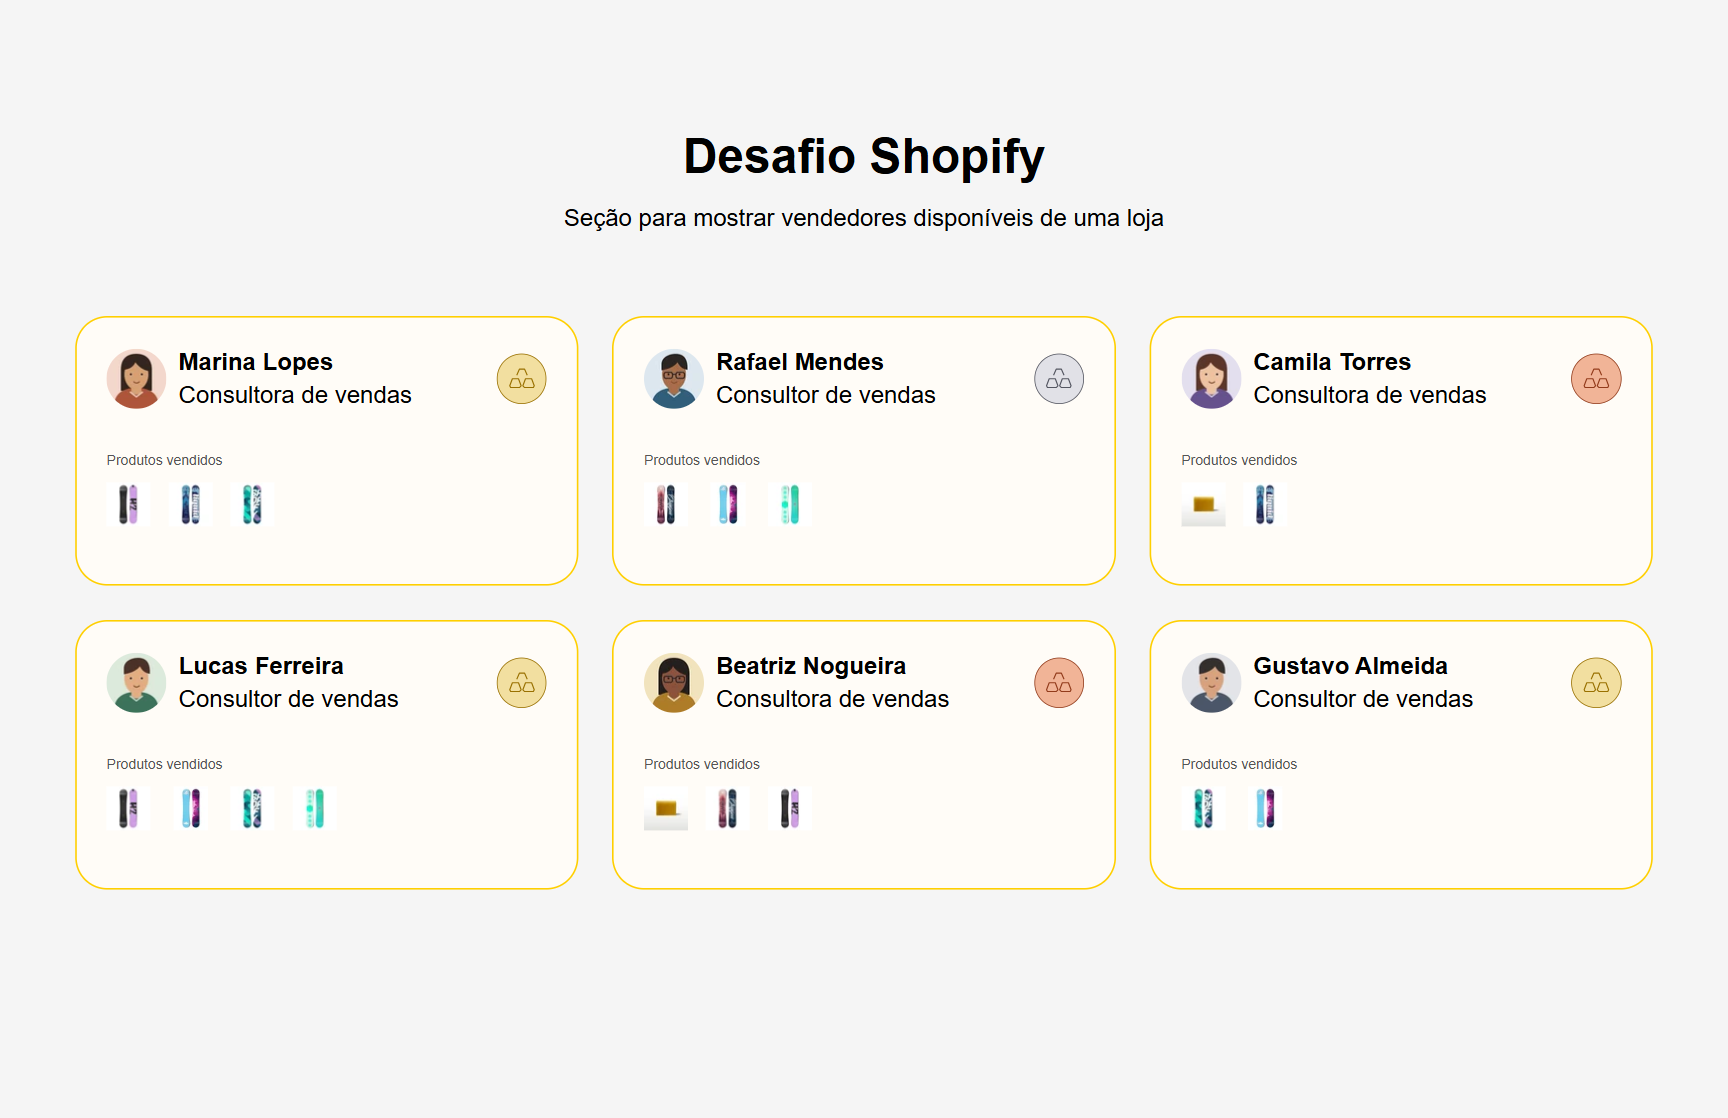
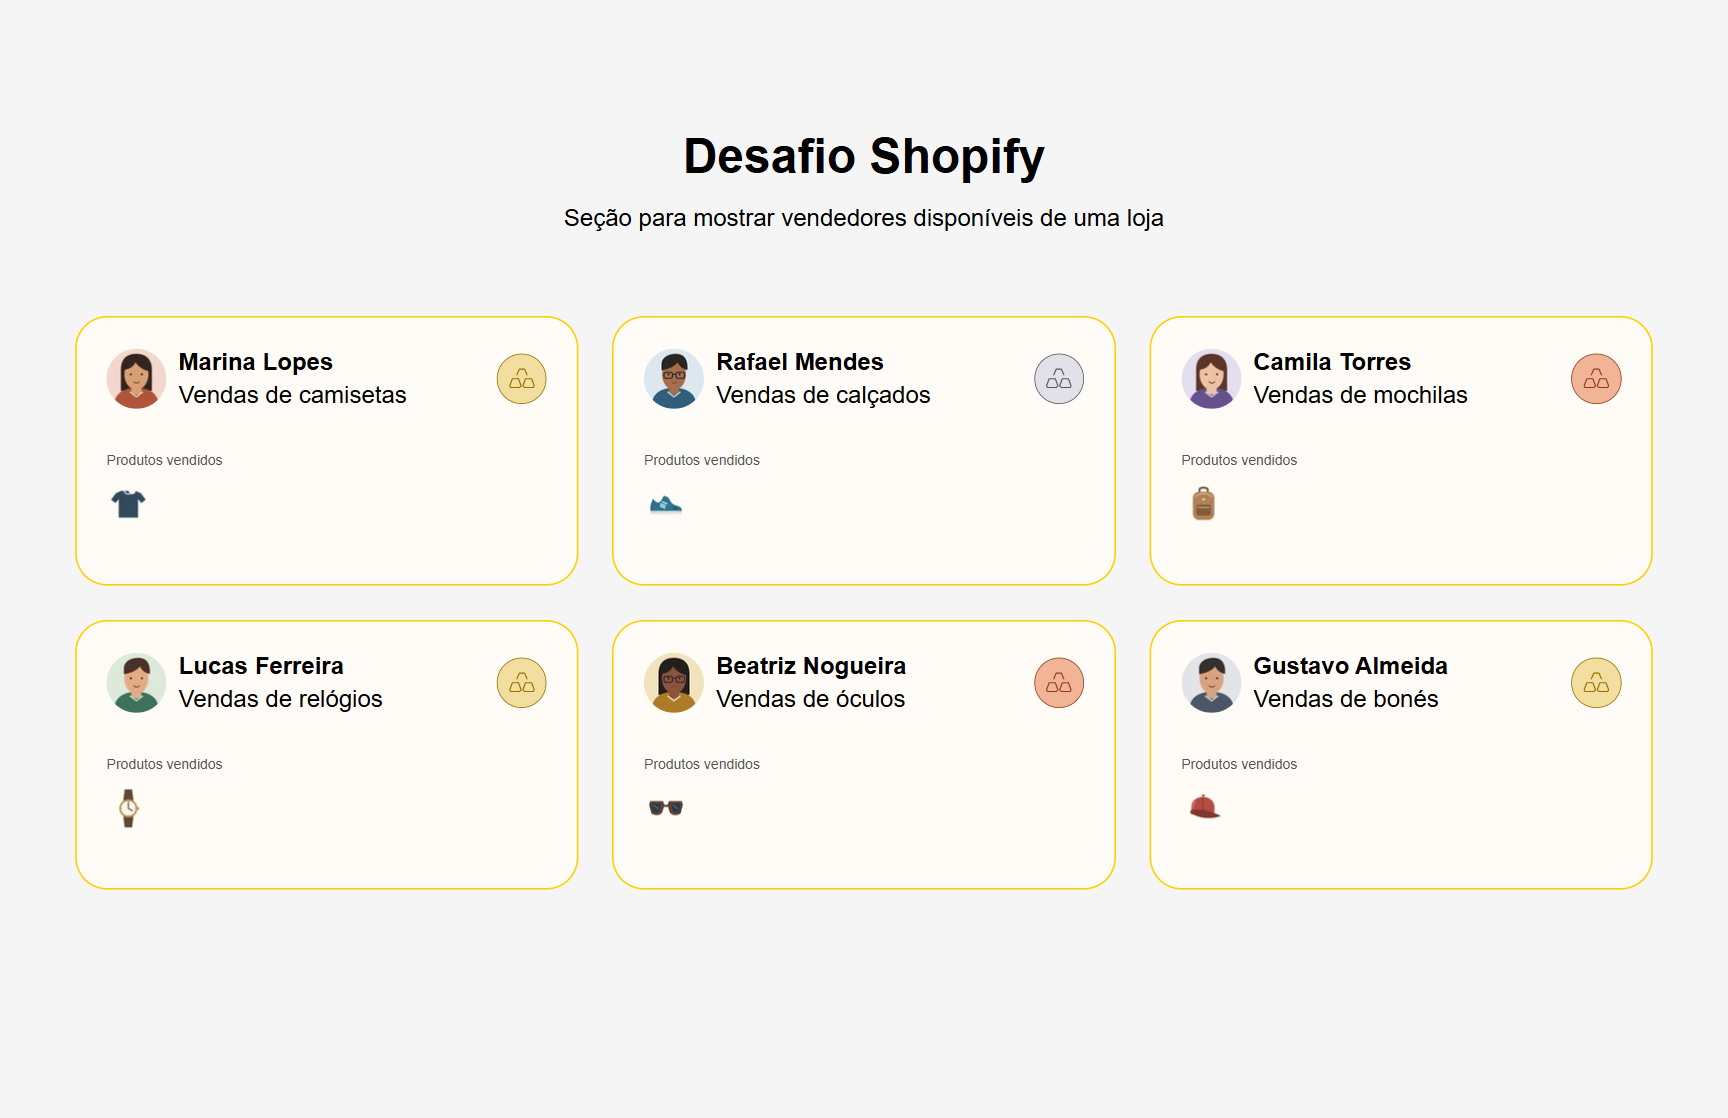
Separa produtos exclusivos por vendedor

diff --git a/README.md b/README.md
@@ -34,7 +34,16 @@ Habilite **Estado ativo/rascunho** e **Acesso à API de frentes de loja online**
 
 Sem foto, aparece o avatar padrão. Cargo, categoria e produtos são opcionais. Categorias desconhecidas não exibem selo. Produtos devem estar disponíveis no canal Loja online para suas referências aparecerem na vitrine.
 
-A demonstração contém Marina Lopes, Rafael Mendes, Camila Torres, Lucas Ferreira, Beatriz Nogueira e Gustavo Almeida. Cada vendedor possui um avatar próprio e uma seleção diferente de produtos, com duas a quatro referências por card.
+A demonstração contém seis vendedores com avatares próprios. Cada um vende um único produto, de uma categoria exclusiva:
+
+| Vendedor | Produto |
+| --- | --- |
+| Marina Lopes | Camiseta de algodão premium |
+| Rafael Mendes | Tênis casual urbano |
+| Camila Torres | Mochila executiva |
+| Lucas Ferreira | Relógio clássico |
+| Beatriz Nogueira | Óculos de sol |
+| Gustavo Almeida | Boné aba curva |
 
 ## Editor do tema
 
@@ -87,6 +96,8 @@ Validação feita em 04/11/2026:
 Para inspecionar a matriz de layouts, execute `node scripts/render-browser-fixtures.mjs` e abra `dist/validation/responsive-matrix.html` no navegador. Ela combina as opções de colunas com nomes longos e padding de 48 px.
 
 O Lighthouse 13.6.0 foi executado no preview real, com três medições mobile para cada cenário. A referência usa o mesmo tema, com o título e o subtítulo estáticos, sem consulta ao metaobjeto nem cards. O teste usa rede simulada de 1,6 Mbps, RTT de 150 ms e CPU 4× mais lenta; a senha de visitante foi autenticada antes da auditoria.
+
+Os relatórios registram a rodada anterior de dados, com seis vendedores e 17 referências de produtos. Depois dessa medição, o catálogo foi organizado em seis produtos exclusivos, um por vendedor; o código da seção permaneceu igual.
 
 | Métrica — mediana de 3 execuções | Com vendedores | Referência sem cards |
 | --- | --- | --- |
